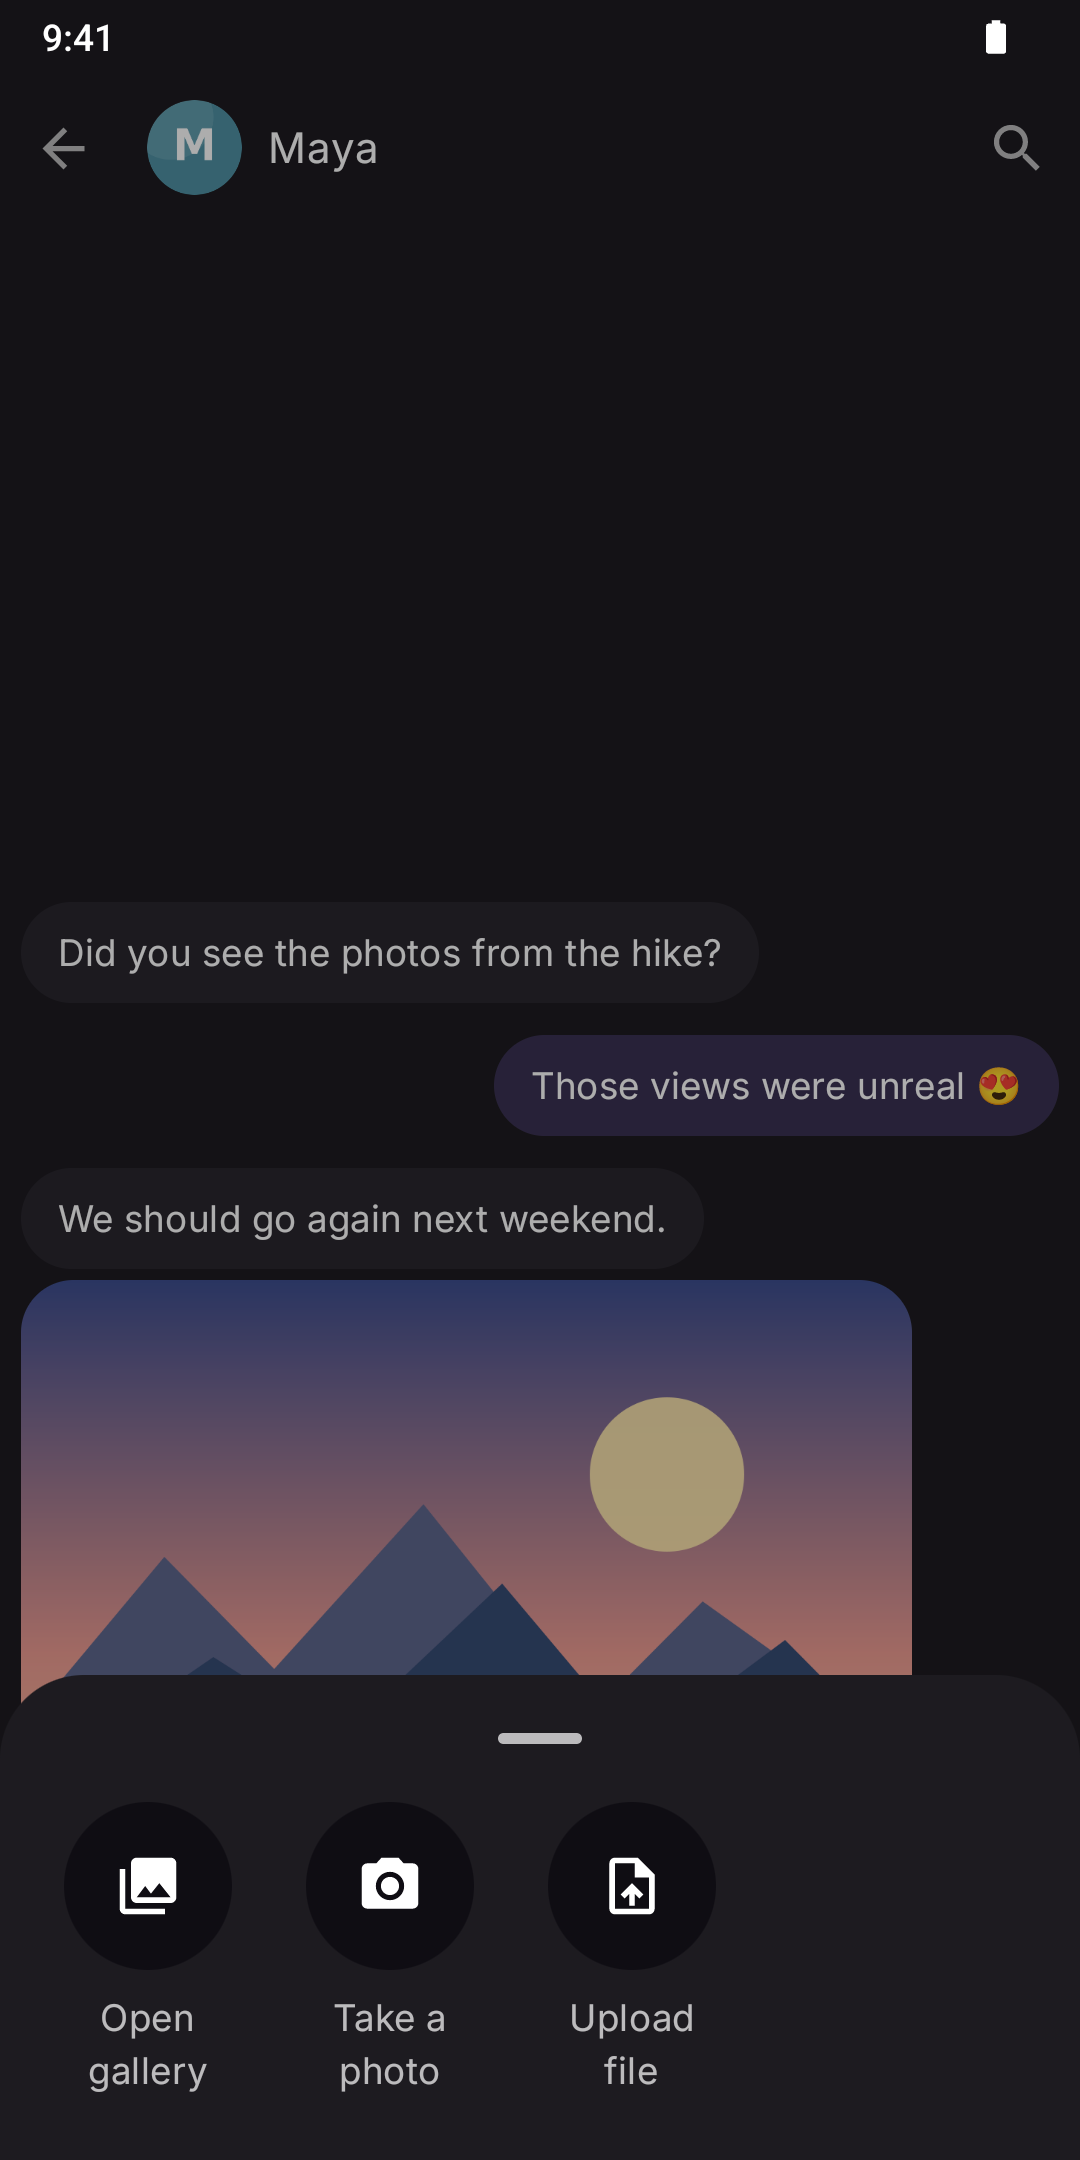
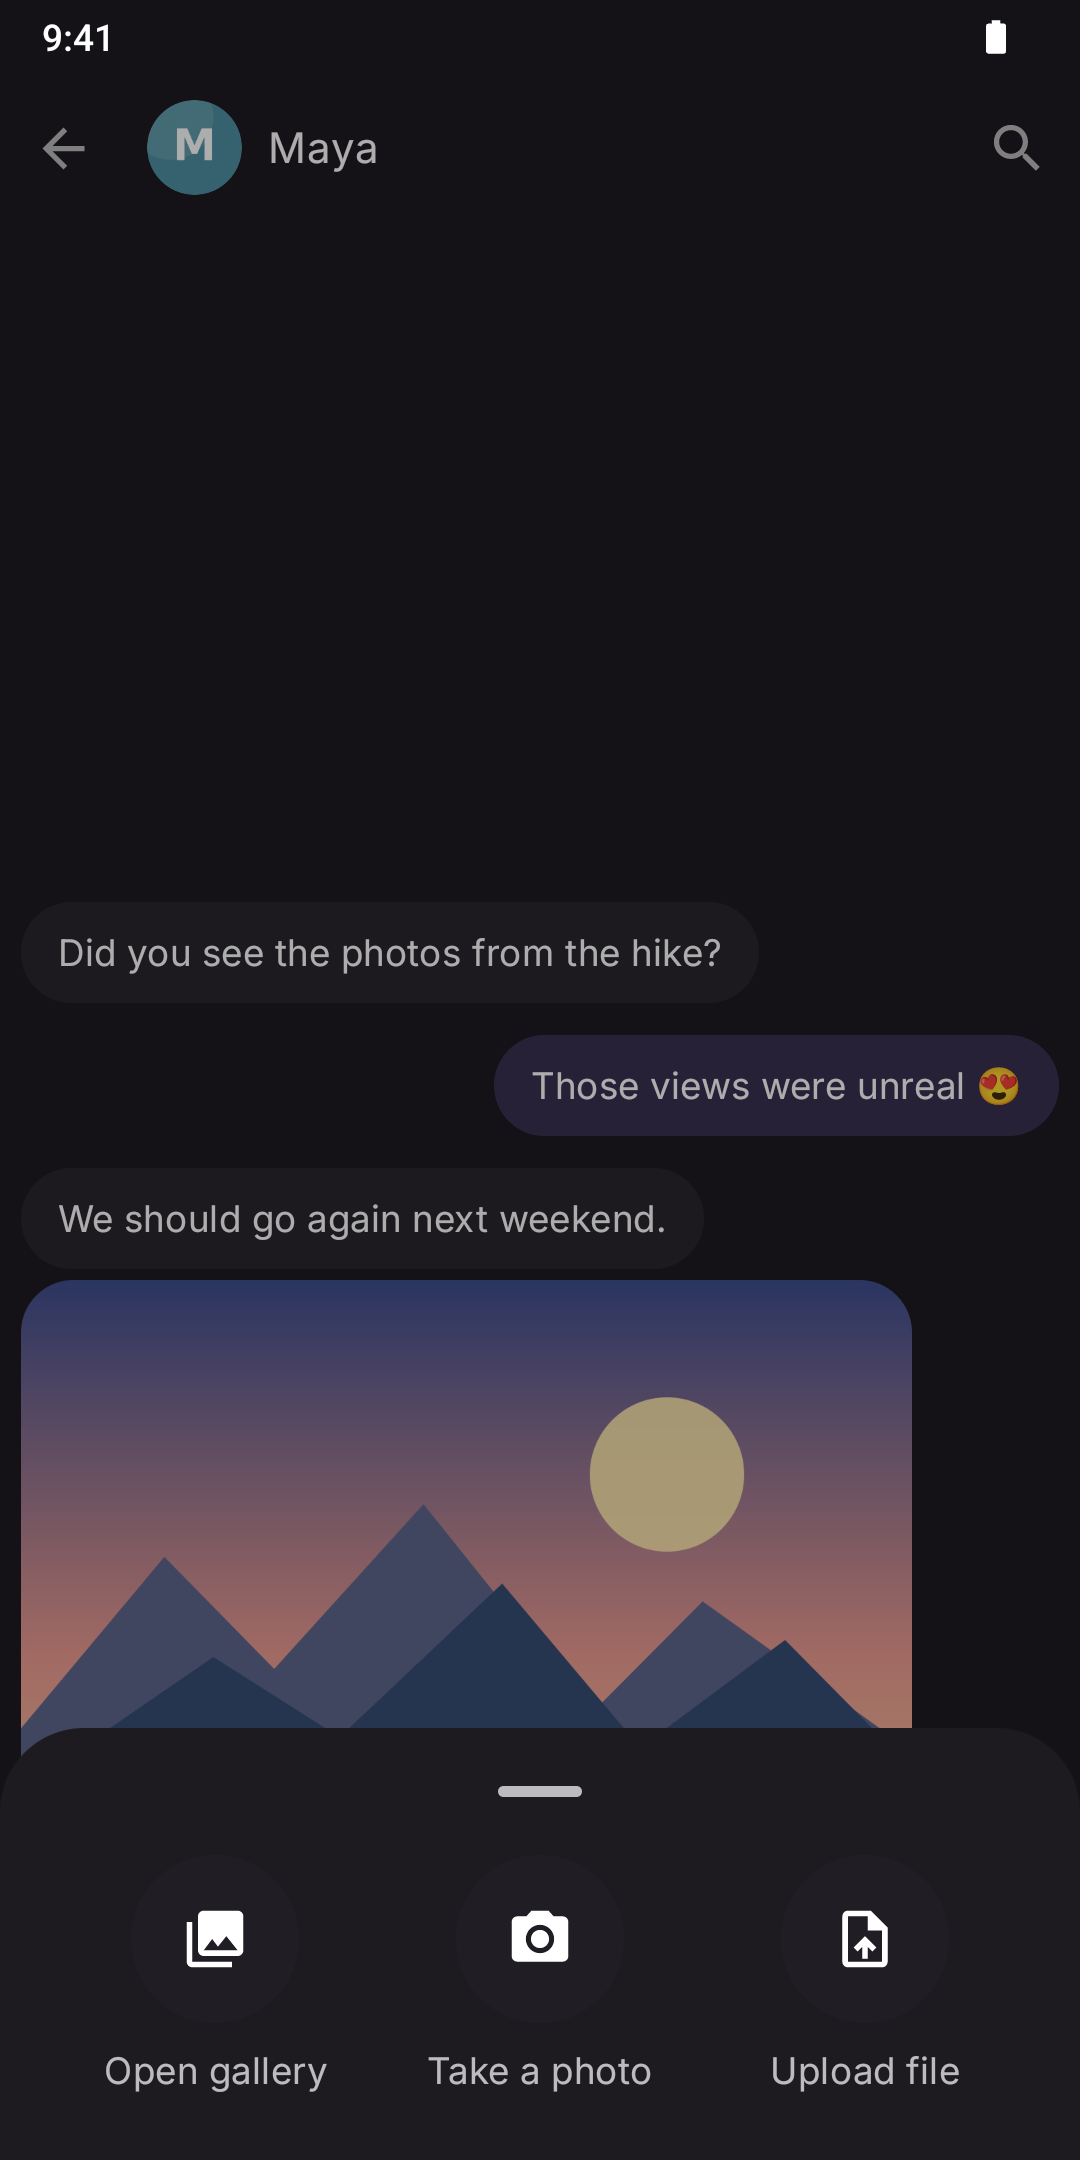
polish(kite): balance attachment picker actions

diff --git a/composeApp/src/jvmMain/kotlin/chat/schildi/revenge/compose/composer/ComposerAttachmentPicker.kt b/composeApp/src/jvmMain/kotlin/chat/schildi/revenge/compose/composer/ComposerAttachmentPicker.kt
@@ -2,7 +2,6 @@ package chat.schildi.revenge.compose.composer
 
 import androidx.compose.foundation.background
 import androidx.compose.foundation.clickable
-import androidx.compose.foundation.layout.Arrangement
 import androidx.compose.foundation.layout.Box
 import androidx.compose.foundation.layout.Column
 import androidx.compose.foundation.layout.Row
@@ -11,7 +10,6 @@ import androidx.compose.foundation.layout.fillMaxWidth
 import androidx.compose.foundation.layout.height
 import androidx.compose.foundation.layout.padding
 import androidx.compose.foundation.layout.size
-import androidx.compose.foundation.layout.width
 import androidx.compose.foundation.shape.CircleShape
 import androidx.compose.material.icons.Icons
 import androidx.compose.material.icons.filled.CameraAlt
@@ -58,7 +56,6 @@ internal fun ComposerAttachmentPicker(
         ) {
             Row(
                 Modifier.fillMaxWidth(),
-                horizontalArrangement = Arrangement.spacedBy(20.dp),
             ) {
                 AttachmentActionOrder.forEach { kind ->
                     if (kind in availableKinds) {
@@ -73,14 +70,14 @@ internal fun ComposerAttachmentPicker(
                             AttachmentPickerKind.GALLERY -> Icons.Default.PhotoLibrary
                         }
                         Column(
-                            modifier = Modifier.width(72.dp),
+                            modifier = Modifier.weight(1f),
                             horizontalAlignment = Alignment.CenterHorizontally,
                         ) {
                             Box(
                                 modifier = Modifier
                                     .size(64.dp)
                                     .clip(AttachmentActionShape)
-                                    .background(MaterialTheme.colorScheme.surfaceContainerLowest)
+                                    .background(MaterialTheme.colorScheme.secondaryContainer)
                                     .clickable {
                                         onDismiss()
                                         onPick(kind)
